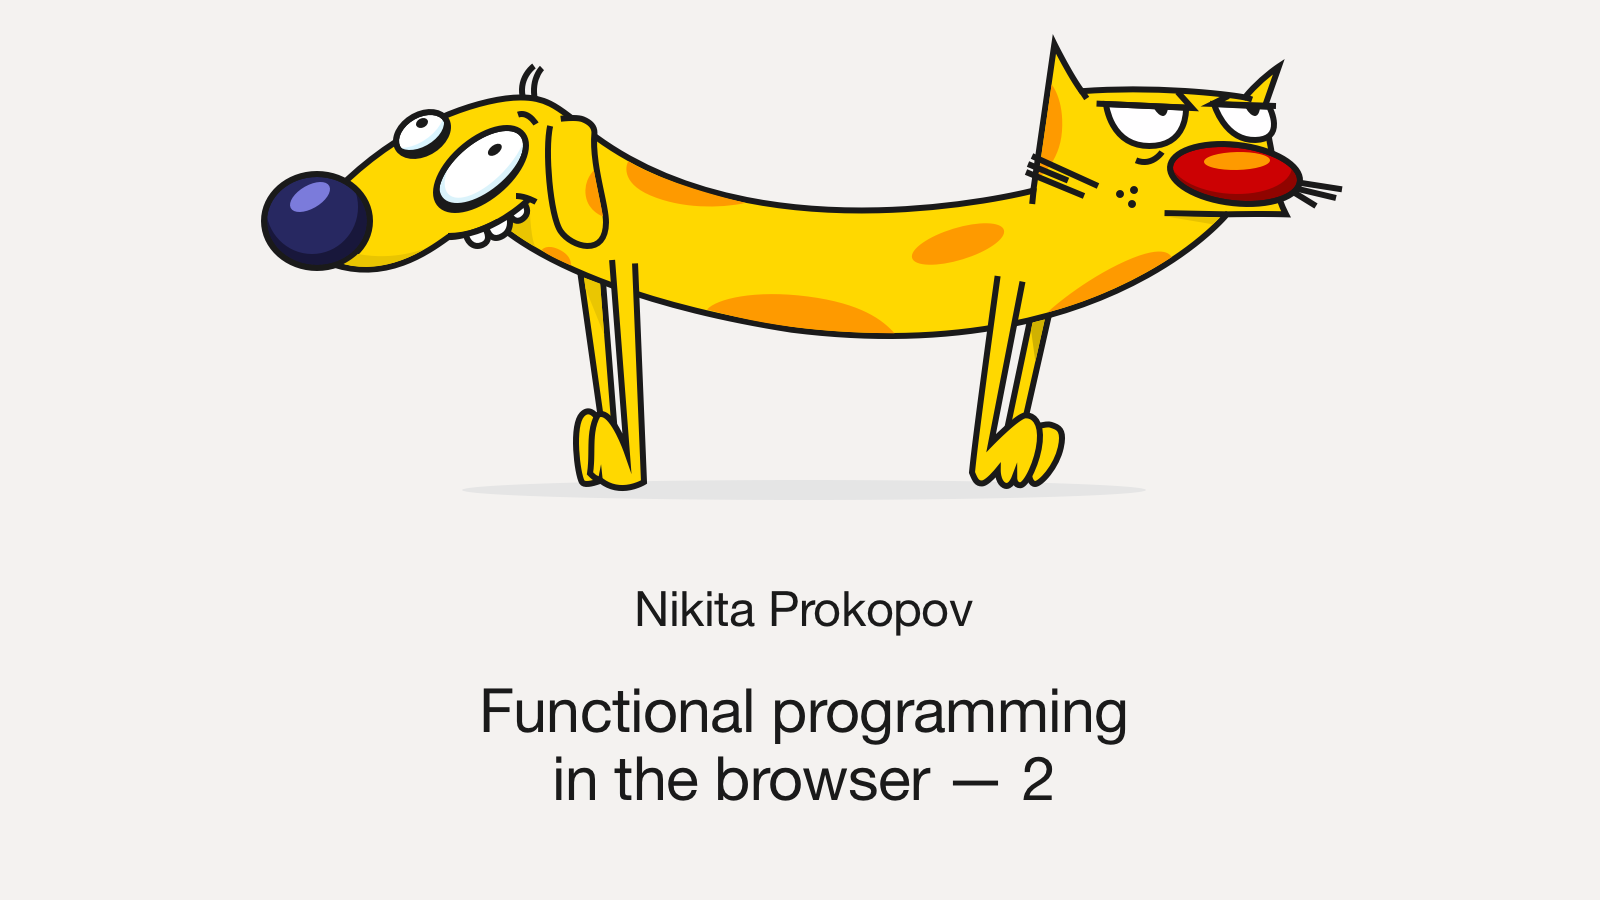
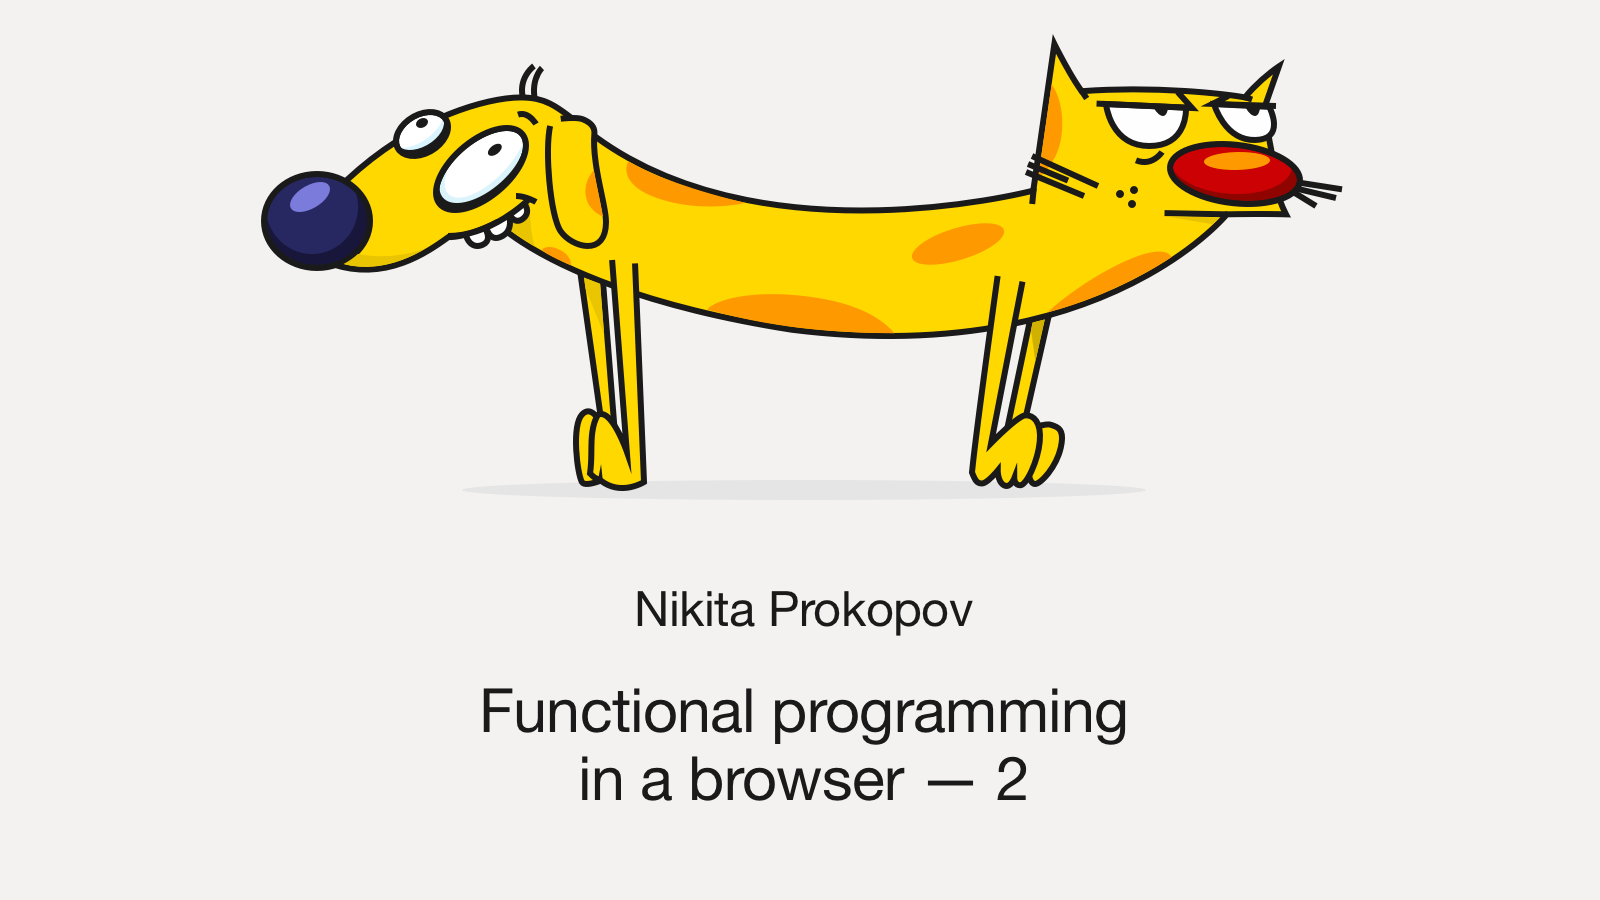
in A browser

Changed region(s): [[0.3438, 0.84, 0.5938, 0.9022], [0.625, 0.84, 0.6562, 0.9022]]

diff --git a/pages/functional-programming-in-a-browser/index.html b/pages/functional-programming-in-a-browser/index.html
@@ -5,7 +5,7 @@
   <link href="//cloud.webtype.com/css/34a9dbc8-2766-4967-a61f-35675306f239.css" rel="stylesheet" type="text/css" />
   <link href='talk.css' rel='stylesheet' type='text/css' />
 
-  <title>FP in the Browser – 2</title>
+  <title>FP in a Browser – 2</title>
 
   <meta name="author" content="Nikita Prokopov" />
   
@@ -34,7 +34,7 @@
 </ul>
 
 <div class=page>
-<p><img class="slide" src="slides/0000 title.png" /></p>
+<p><img class="slide" src="slides/0000 title.png" alt="Functional programming in a browser – 2" /></p>
 
 <p>This post touches the topic of how functional programming approach helps us coders reduce the UI programming struggles.</p>
 
